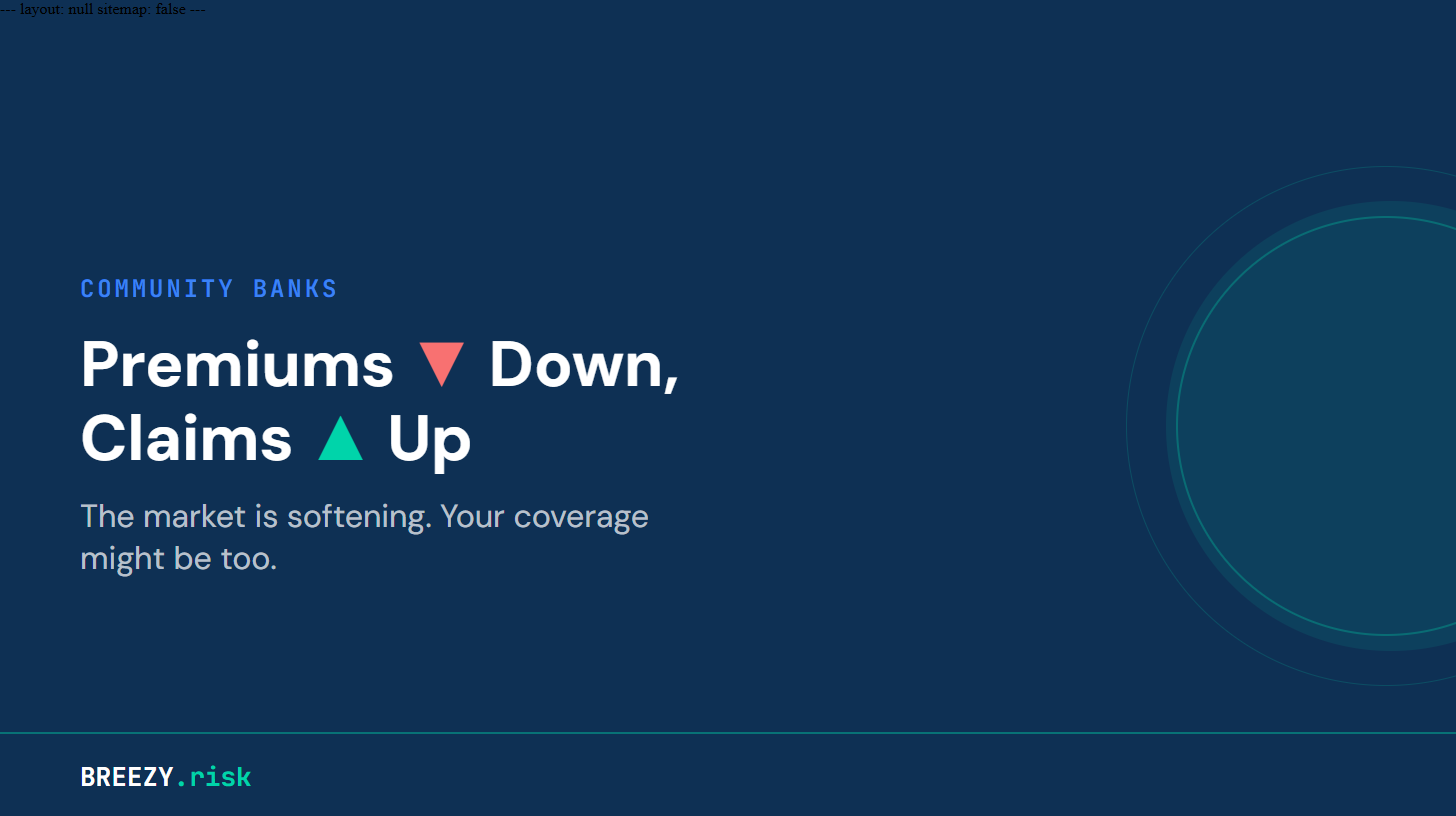
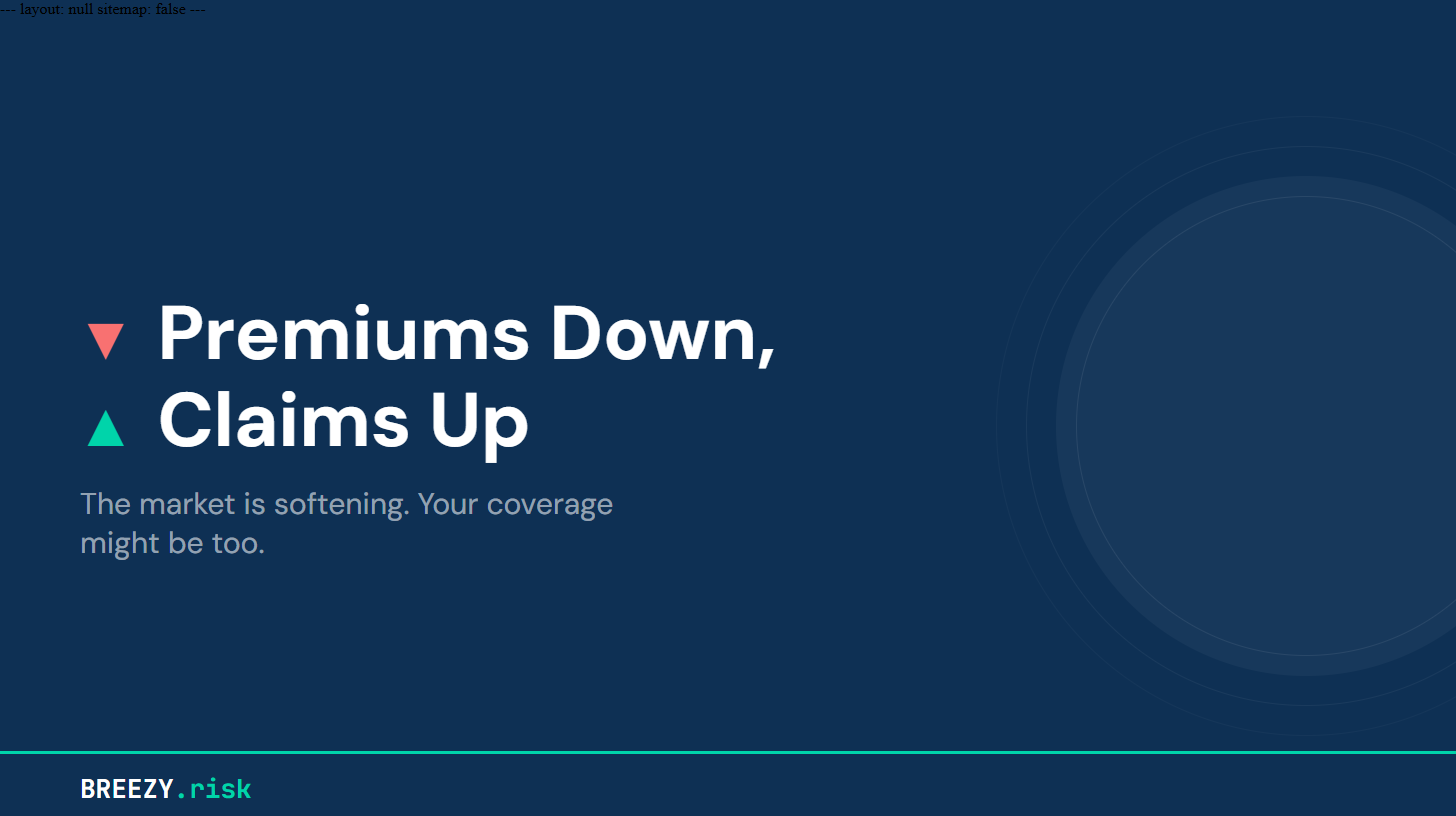
Update blog image and meta description: match site style, remove 2024
Image: remove category label, subtler circles, arrows left-aligned.
Meta description: drop "in 2024" for evergreen phrasing.

diff --git a/assets/images/blog-header-premiums-down-claims-up.html b/assets/images/blog-header-premiums-down-claims-up.html
@@ -30,48 +30,55 @@ sitemap: false
 
         .circle {
             position: absolute;
-            width: 450px;
-            height: 450px;
+            width: 500px;
+            height: 500px;
             border-radius: 50%;
-            background: #00D4AA;
-            opacity: 0.10;
-            right: -160px;
+            background: rgba(255, 255, 255, 0.04);
+            right: -100px;
             top: 50%;
             transform: translateY(-50%);
         }
 
         .circle-ring {
             position: absolute;
-            width: 420px;
-            height: 420px;
+            width: 460px;
+            height: 460px;
             border-radius: 50%;
-            border: 2px solid #00D4AA;
-            opacity: 0.30;
-            right: -140px;
+            border: 1.5px solid rgba(255, 255, 255, 0.08);
+            right: -80px;
             top: 50%;
             transform: translateY(-50%);
         }
 
         .circle-ring-outer {
             position: absolute;
-            width: 520px;
-            height: 520px;
+            width: 560px;
+            height: 560px;
             border-radius: 50%;
-            border: 1.5px solid #00D4AA;
-            opacity: 0.18;
-            right: -190px;
+            border: 1px solid rgba(255, 255, 255, 0.05);
+            right: -130px;
+            top: 50%;
+            transform: translateY(-50%);
+        }
+
+        .circle-ring-outermost {
+            position: absolute;
+            width: 620px;
+            height: 620px;
+            border-radius: 50%;
+            border: 1px solid rgba(255, 255, 255, 0.03);
+            right: -160px;
             top: 50%;
             transform: translateY(-50%);
         }
 
         .accent-line {
             position: absolute;
-            bottom: 100px;
+            bottom: 80px;
             left: 0;
             right: 0;
-            height: 2px;
+            height: 3px;
             background: #00D4AA;
-            opacity: 0.40;
         }
 
         .content {
@@ -86,37 +93,39 @@ sitemap: false
             justify-content: center;
         }
 
-        .category {
-            font-family: 'JetBrains Mono', monospace;
-            font-size: 24px;
-            font-weight: 600;
-            letter-spacing: 0.12em;
-            text-transform: uppercase;
-            color: #3B82F6;
-            margin-bottom: 24px;
-        }
-
         .title {
             font-family: 'DM Sans', sans-serif;
-            font-size: 64px;
+            font-size: 76px;
             font-weight: 700;
             color: #FFFFFF;
             line-height: 1.15;
             margin-bottom: 20px;
-            max-width: 720px;
+            max-width: 800px;
+        }
+
+        .arrow-down {
+            color: #F87171;
+            font-size: 52px;
+            margin-right: 8px;
+        }
+
+        .arrow-up {
+            color: #00D4AA;
+            font-size: 52px;
+            margin-right: 8px;
         }
 
         .subtitle {
             font-family: 'DM Sans', sans-serif;
-            font-size: 32px;
+            font-size: 30px;
             font-weight: 400;
-            color: rgba(255, 255, 255, 0.7);
+            color: rgba(255, 255, 255, 0.55);
             max-width: 600px;
         }
 
         .logo {
             position: absolute;
-            bottom: 40px;
+            bottom: 28px;
             left: 80px;
             font-family: 'JetBrains Mono', monospace;
             font-size: 26px;
@@ -135,11 +144,11 @@ sitemap: false
     <div class="circle"></div>
     <div class="circle-ring"></div>
     <div class="circle-ring-outer"></div>
+    <div class="circle-ring-outermost"></div>
     <div class="accent-line"></div>
 
     <div class="content">
-        <div class="category">Community Banks</div>
-        <div class="title">Premiums <span style="color: #F87171;">&#x25BC;</span> Down, Claims <span style="color: #00D4AA;">&#x25B2;</span> Up</div>
+        <div class="title"><span class="arrow-down">&#x25BC;</span> Premiums Down,<br><span class="arrow-up">&#x25B2;</span> Claims Up</div>
         <div class="subtitle">The market is softening. Your coverage might be too.</div>
     </div>
 

diff --git a/_posts/2026-04-26-premiums-down-claims-up.md b/_posts/2026-04-26-premiums-down-claims-up.md
@@ -1,7 +1,7 @@
 ---
 layout: post
 title: "Premiums Down, Claims Up"
-description: "US cyber insurance premiums fell 7% in 2024 while claims rose nearly 40%. For community banks at renewal, a lower premium is not necessarily a win. Here is what to check before signing."
+description: "US cyber insurance premiums fell 7% while claims rose nearly 40%. For community banks at renewal, a lower premium is not necessarily a win. Here is what to check before signing."
 date: 2026-04-26
 author: Joerg Proeve
 category: Community Banks
